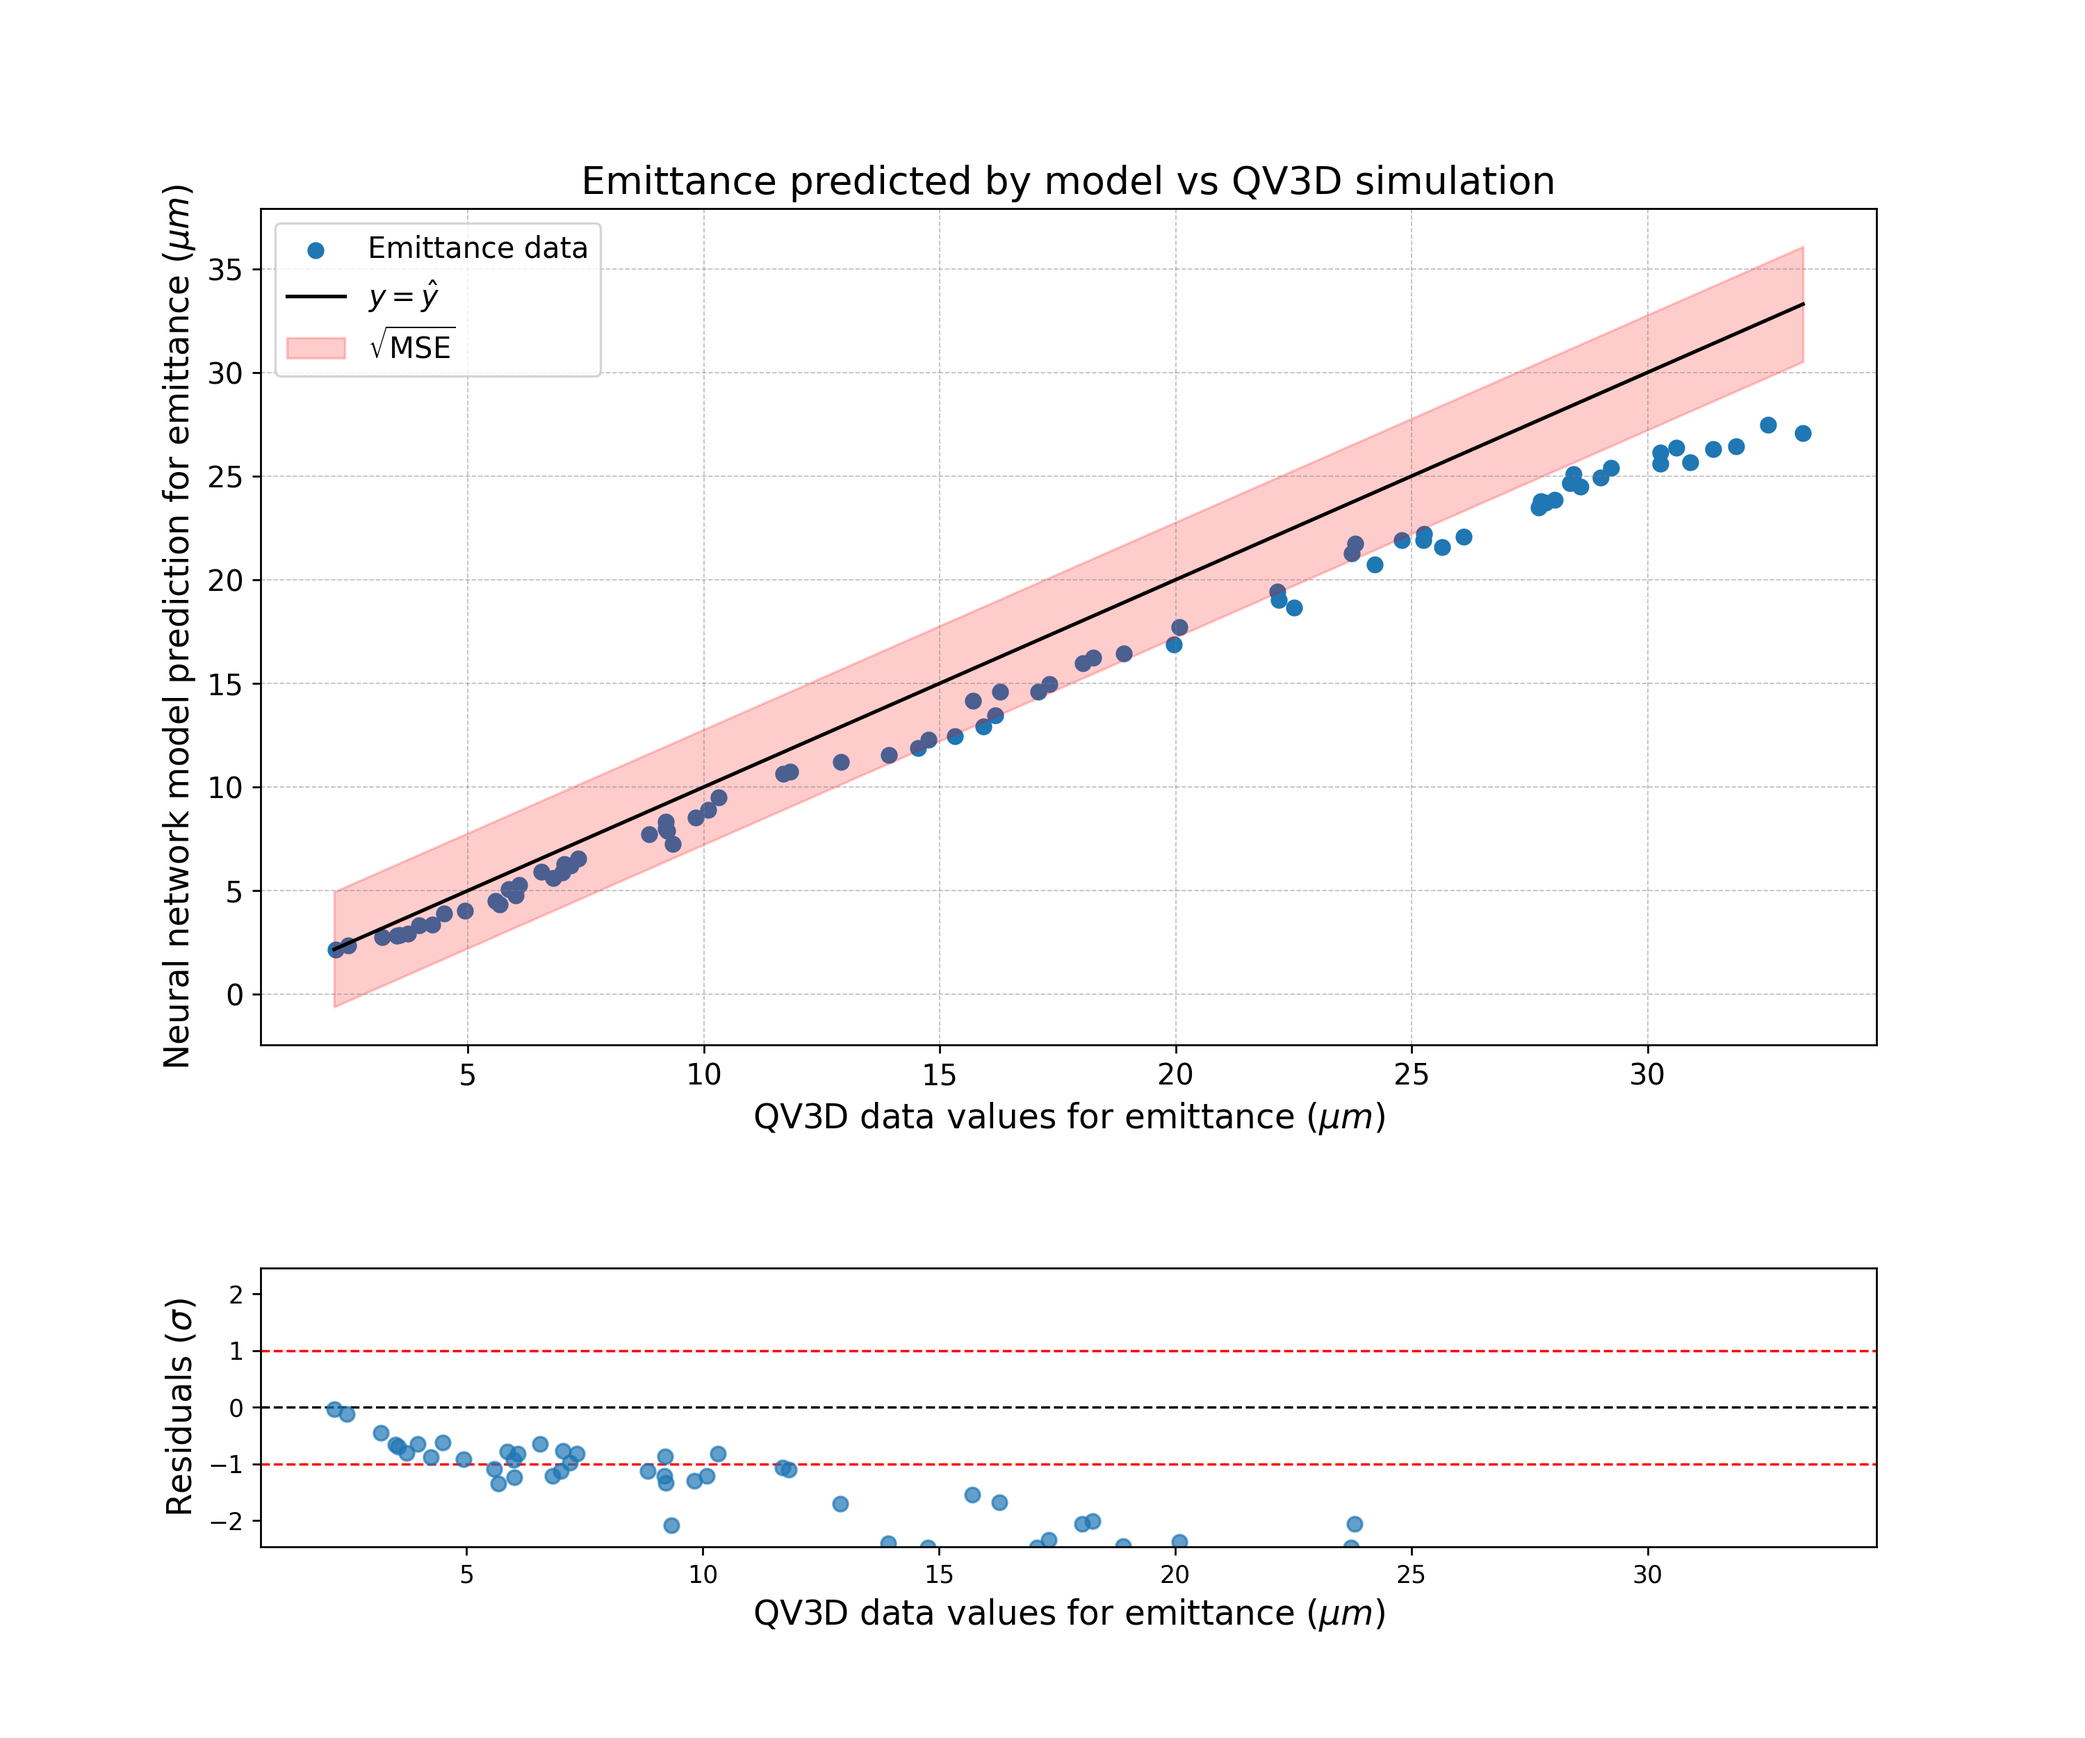
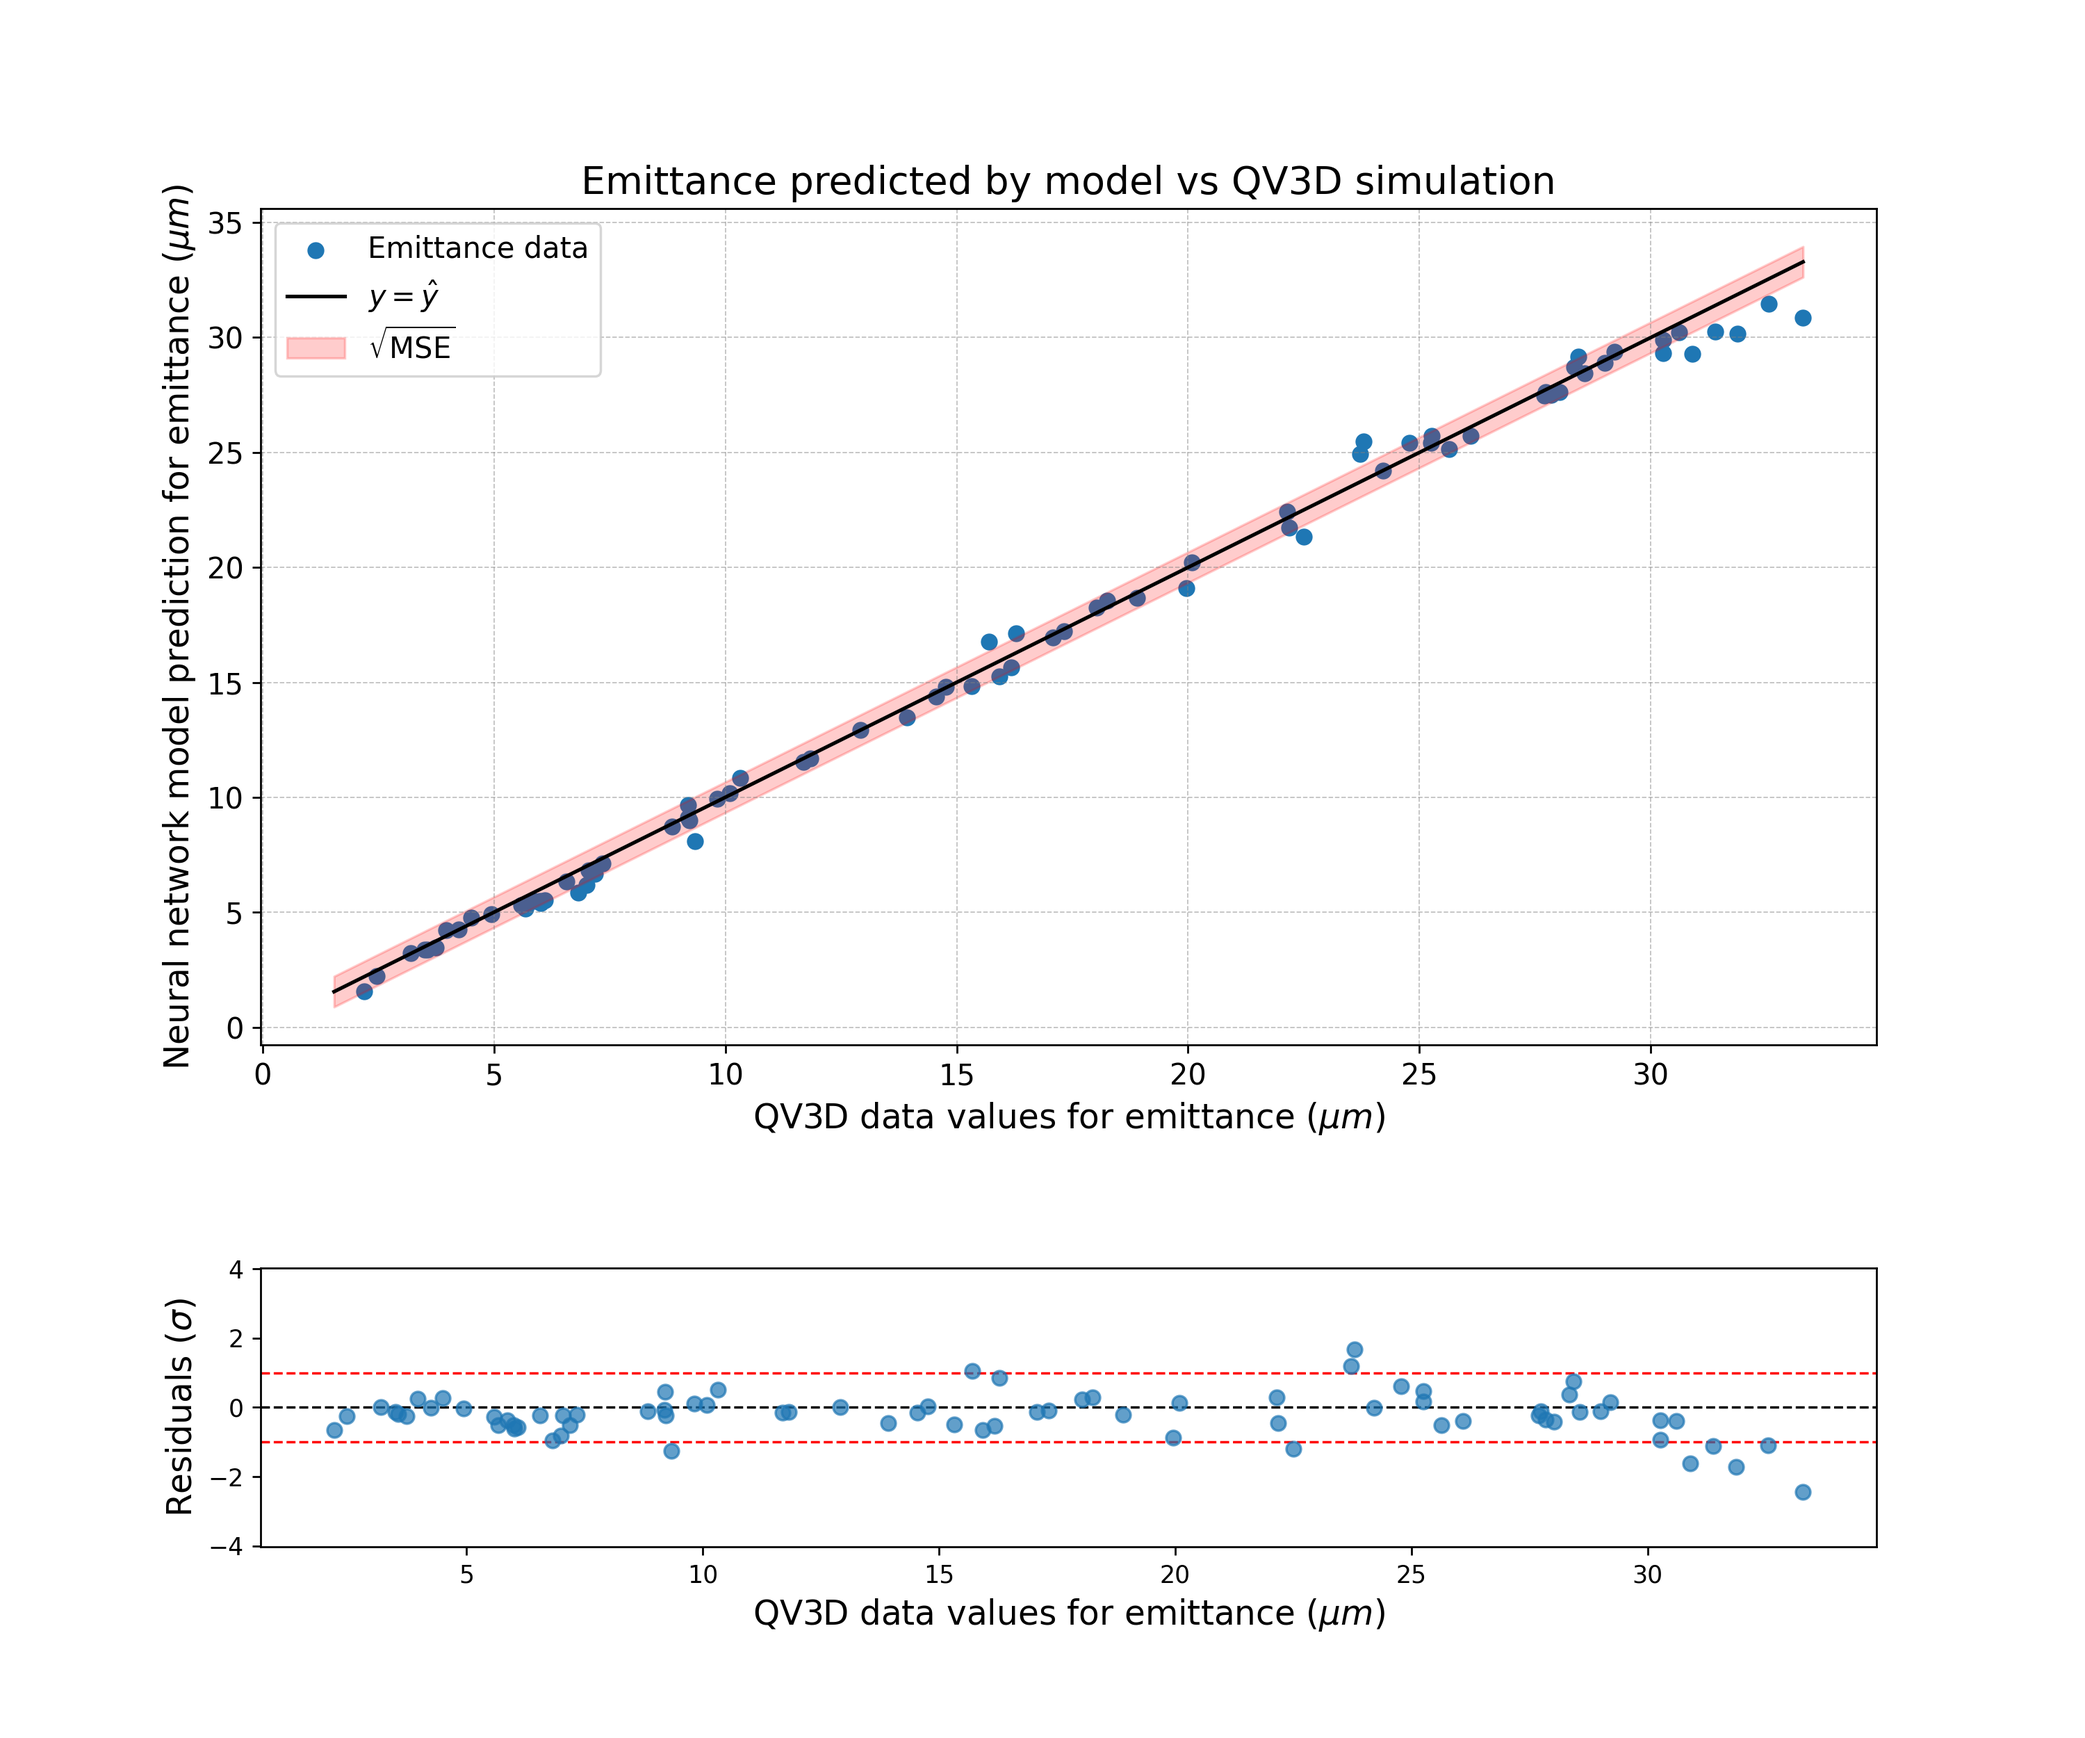
ran more training

diff --git a/Machine Learning/neural_network_sigmoid.py b/Machine Learning/neural_network_sigmoid.py
@@ -345,9 +345,6 @@ test_targets = np.concatenate([batch_targets.cpu().numpy() for _, batch_targets 
 
 
 
-#mse=average_loss
-#all_predictions = all_predictions.numpy()
-#y_test = y_test.numpy()
 
 x=np.linspace(min(min(test_predictions), min(test_targets)),max(max(test_predictions), max(test_targets)),100)
 x = x.flatten() # Convert to 1D array
@@ -387,6 +384,6 @@ ax2.set_ylabel(r"Residuals ($\sigma$)", fontsize=14)
 ax2.set_xlabel(r"QV3D data values for emittance ($\mu m$)", fontsize=14)
 ax2.set_ylim(-np.max(np.abs(1.1*residuals/np.sqrt(mse))), np.max((np.abs(1.1*residuals/np.sqrt(mse)))))
 
-plt.savefig(r'Machine Learning\Plots\NN_plot',dpi=250)
+plt.savefig(r'Machine Learning\Plots\NN_plot_sigmoid',dpi=250)
 #plt.show()
 
